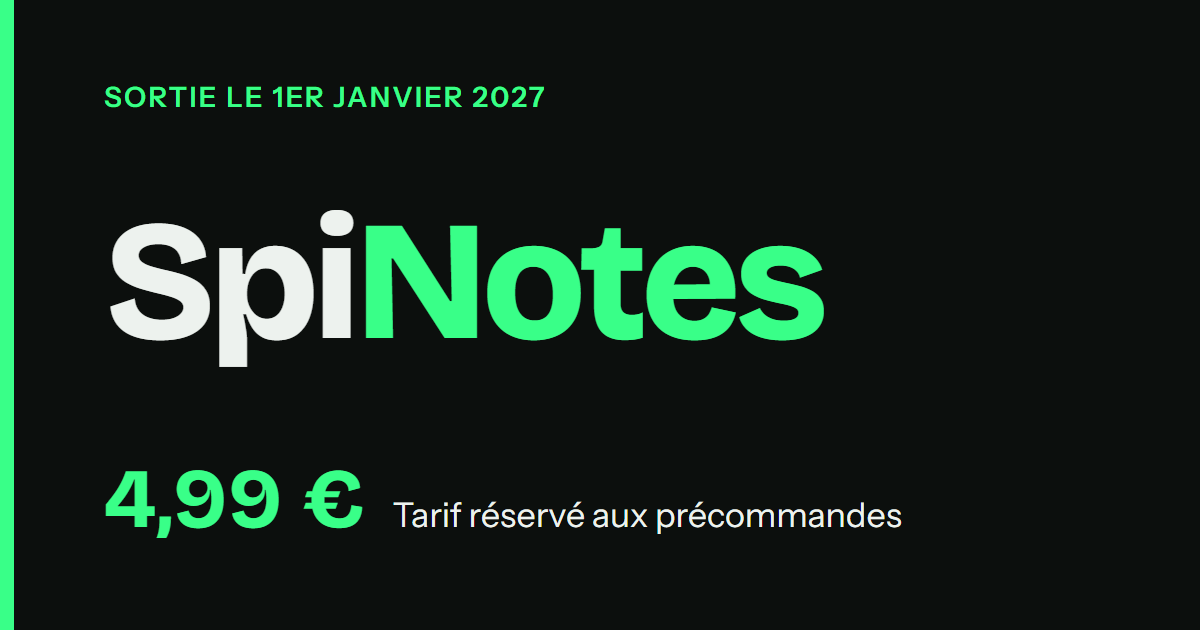
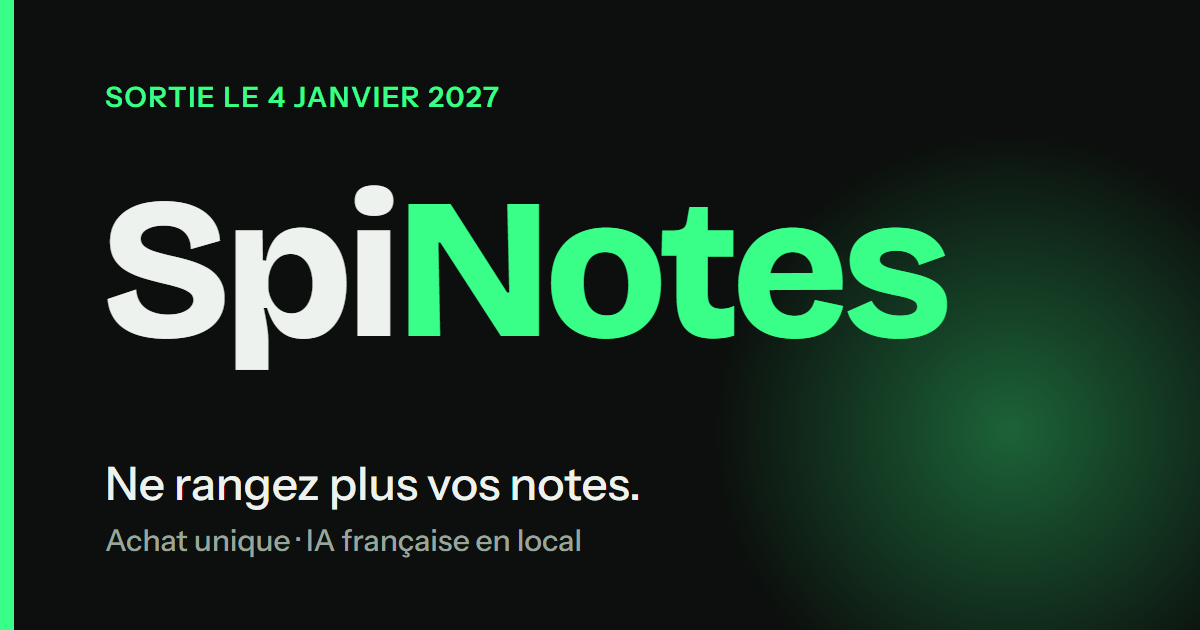
Prix à 6,99 €, sortie le 4 janvier 2027, nouveaux arguments, compte à rebours en pilules de verre

Changed region(s): [[0.0617, 0.2714, 1.0, 1.0], [0.1542, 0.1206, 0.4625, 0.181], [0.0925, 0.1206, 0.1233, 0.181]]

diff --git a/index.html b/index.html
@@ -4,13 +4,13 @@
   <meta charset="utf-8">
   <meta http-equiv="Content-Security-Policy" content="default-src 'self'; script-src 'self'; style-src 'self' 'unsafe-inline'; img-src 'self' data:; font-src 'self'; connect-src 'self'; form-action 'self'; base-uri 'self'; object-src 'none'">
   <meta name="viewport" content="width=device-width, initial-scale=1">
-  <title>SpiNotes | Précommande à 4,99 €</title>
-  <meta name="description" content="SpiNotes sort le 1er janvier 2027. Précommandez gratuitement aujourd'hui et bloquez le tarif de 4,99 €, réservé aux précommandes.">
+  <title>SpiNotes | Ne rangez plus vos notes</title>
+  <meta name="description" content="SpiNotes range vos notes à votre place. Achat unique sans abonnement, IA française en local. Sortie le 4 janvier 2027 : précommandez gratuitement au tarif de 6,99 €.">
   <link rel="canonical" href="https://spinotes.github.io/">
   <meta property="og:type" content="website">
   <meta property="og:locale" content="fr_FR">
-  <meta property="og:title" content="SpiNotes | Précommande à 4,99 €">
-  <meta property="og:description" content="Sortie le 1er janvier 2027. Tarif de 4,99 € réservé aux précommandes.">
+  <meta property="og:title" content="SpiNotes | Ne rangez plus vos notes">
+  <meta property="og:description" content="Sortie le 4 janvier 2027. Achat unique sans abonnement, IA française en local. Précommande gratuite à 6,99 €.">
   <meta property="og:url" content="https://spinotes.github.io/">
   <meta property="og:image" content="https://spinotes.github.io/og.png">
   <meta name="twitter:card" content="summary_large_image">
@@ -38,21 +38,11 @@
   <main id="contenu">
     <section class="hero">
       <div class="wrap">
-        <p class="eyebrow">Sortie le 1er janvier 2027</p>
+        <p class="eyebrow">Sortie le 4 janvier 2027</p>
         <h1>Spi<span>Notes</span></h1>
-        <!-- A COMPLETER : phrase d'accroche qui dit en une ligne à quoi sert l'app -->
-        <p class="hero-lead">L'app de notes signée Spin arrive bientôt. Réservez-la dès maintenant.</p>
+        <p class="hero-lead">Vous écrivez, SpiNotes range. Moins de temps à organiser vos notes, plus de temps pour le reste.</p>
 
-        <div class="price-line">
-          <span class="price">4,99 €</span>
-          <p class="price-note">Tarif réservé aux précommandes
-            <small>Rien à payer aujourd'hui. Inscription gratuite et sans engagement.</small>
-          </p>
-        </div>
-
-        <a class="btn" href="#precommande">Je précommande SpiNotes</a>
-
-        <div class="countdown" id="countdown" data-target="2027-01-01T00:00:00+01:00">
+        <div class="countdown" id="countdown" data-target="2027-01-04T00:00:00+01:00">
           <p class="countdown-label">Lancement dans</p>
           <div class="countdown-grid" aria-live="off">
             <div class="countdown-unit"><strong data-unit="days">--</strong><span>jours</span></div>
@@ -61,6 +51,8 @@
             <div class="countdown-unit"><strong data-unit="seconds">--</strong><span>secondes</span></div>
           </div>
         </div>
+
+        <a class="btn" href="#precommande">Je précommande SpiNotes</a>
       </div>
     </section>
 
@@ -68,10 +60,34 @@
       <div class="wrap split">
         <div>
           <h2>À quoi sert SpiNotes</h2>
+          <p class="lead-accent">Fini le rangement.</p>
         </div>
-        <div>
-          <!-- A COMPLETER : description de l'app (fonctions principales, pour qui, ce qui la rend différente) -->
-          <p class="todo">Description de l'application à compléter.</p>
+        <div class="prose-block">
+          <p>Vous prenez une note, SpiNotes la classe à sa place. Plus de dossiers à créer, plus de tri le dimanche soir, plus de notes perdues au fond d'un tiroir numérique.</p>
+          <p>Le temps que vous passiez à organiser, vous le passez à autre chose : avancer sur un projet, réviser, ou simplement souffler.</p>
+        </div>
+      </div>
+    </section>
+
+    <section class="section" id="avantages">
+      <div class="wrap">
+        <h2>Ce qui change avec SpiNotes</h2>
+        <div class="cards">
+          <article class="card card-featured">
+            <span class="pill">Vos données protégées</span>
+            <h3>Une IA française, qui reste chez vous</h3>
+            <p>Le moteur d'IA de SpiNotes est français et fonctionne en local, directement sur votre appareil. Vos notes ne sont pas envoyées sur un serveur pour être analysées : elles restent à vous, et vos données restent protégées.</p>
+          </article>
+          <article class="card">
+            <span class="pill">Sans abonnement</span>
+            <h3>Vous travaillez seul ? Payez une seule fois.</h3>
+            <p>Un achat unique, et SpiNotes est à vous. Pas d'abonnement, pas de facture qui revient chaque mois. Beaucoup d'apps de notes ne se louent qu'à l'abonnement : pas pour utiliser SpiNotes en solo.</p>
+          </article>
+          <article class="card">
+            <span class="pill">À la carte</span>
+            <h3>Synchronisation et collaboration sur mesure</h3>
+            <p>Vous voulez retrouver vos notes sur votre téléphone ? Une formule de synchronisation, moins chère. Vous voulez travailler à plusieurs ? Ajoutez l'option collaboration. Vous ne payez que ce dont vous avez besoin.</p>
+          </article>
         </div>
       </div>
     </section>
@@ -80,7 +96,13 @@
       <div class="wrap split">
         <div>
           <h2>Comment marche la précommande</h2>
-          <p style="color:var(--muted)">Le tarif de 4,99 € est valable uniquement pour les personnes inscrites avant la sortie.</p>
+          <div class="price-line">
+            <span class="price">6,99 €</span>
+            <p class="price-note">Achat unique, tarif réservé aux précommandes
+              <small>Rien à payer aujourd'hui. Inscription gratuite et sans engagement.</small>
+            </p>
+          </div>
+          <p style="color:var(--muted)">Le tarif de 6,99 € est valable uniquement pour les personnes inscrites avant la sortie.</p>
         </div>
         <ol class="steps">
           <li>
@@ -89,10 +111,10 @@
           </li>
           <li>
             <strong>Vous recevez un email de confirmation</strong>
-            <p>Il confirme que votre précommande est bien enregistrée et que le tarif de 4,99 € vous est réservé.</p>
+            <p>Il confirme que votre précommande est bien enregistrée et que le tarif de 6,99 € vous est réservé.</p>
           </li>
           <li>
-            <strong>Le 1er janvier 2027, on vous prévient</strong>
+            <strong>Le 4 janvier 2027, on vous prévient</strong>
             <p>Un second email vous donne le lien pour télécharger SpiNotes au tarif précommande.</p>
           </li>
         </ol>
@@ -184,15 +206,19 @@
         <div class="faq">
           <details>
             <summary>Est-ce que je paie quelque chose aujourd'hui ?</summary>
-            <p>Non. La précommande est gratuite et sans engagement. Vous payez 4,99 € seulement si vous décidez de télécharger SpiNotes à sa sortie.</p>
+            <p>Non. La précommande est gratuite et sans engagement. Vous payez 6,99 € une seule fois, seulement si vous décidez de télécharger SpiNotes à sa sortie.</p>
           </details>
           <details>
-            <summary>Le tarif de 4,99 € est-il garanti ?</summary>
+            <summary>Faut-il un abonnement pour utiliser SpiNotes ?</summary>
+            <p>Non. L'application s'achète une seule fois, sans abonnement. La synchronisation entre vos appareils et la collaboration sont des options facultatives : vous choisissez la formule qui vous correspond, et vous payez moins si vous voulez seulement synchroniser vos notes avec votre téléphone.</p>
+          </details>
+          <details>
+            <summary>Le tarif de 6,99 € est-il garanti ?</summary>
             <p>Oui, pour toutes les personnes inscrites avant le lancement. Ce tarif ne sera plus proposé ensuite.</p>
           </details>
           <details>
             <summary>Quand vais-je recevoir l'application ?</summary>
-            <p>La sortie est prévue le 1er janvier 2027. Vous recevrez un email ce jour-là avec le lien de téléchargement.</p>
+            <p>La sortie est prévue le 4 janvier 2027. Vous recevrez un email ce jour-là avec le lien de téléchargement.</p>
           </details>
           <details>
             <summary>Je n'ai pas reçu l'email de confirmation.</summary>

diff --git a/css/style.css b/css/style.css
@@ -191,7 +191,36 @@ p {
 /* Hero */
 
 .hero {
-  padding: 64px 0 72px;
+  position: relative;
+  overflow: hidden;
+  isolation: isolate;
+  padding: 64px 0 80px;
+}
+
+.hero::before,
+.hero::after {
+  content: "";
+  position: absolute;
+  z-index: -1;
+  border-radius: 50%;
+  filter: blur(70px);
+  pointer-events: none;
+}
+
+.hero::before {
+  width: 520px;
+  height: 520px;
+  top: 90px;
+  left: -120px;
+  background: radial-gradient(circle, rgba(57, 255, 136, 0.42), transparent 68%);
+}
+
+.hero::after {
+  width: 460px;
+  height: 460px;
+  top: 220px;
+  right: -140px;
+  background: radial-gradient(circle, rgba(43, 196, 106, 0.3), transparent 68%);
 }
 
 @media (min-width: 900px) {
@@ -223,8 +252,8 @@ p {
 .hero-lead {
   font-size: clamp(1.125rem, 2.4vw, 1.375rem);
   color: var(--muted);
-  max-width: 34ch;
-  margin-bottom: 32px;
+  max-width: 36ch;
+  margin-bottom: 36px;
 }
 
 .price-line {
@@ -232,7 +261,7 @@ p {
   flex-wrap: wrap;
   align-items: baseline;
   gap: 8px 16px;
-  margin-bottom: 32px;
+  margin: 8px 0 20px;
 }
 
 .price {
@@ -255,12 +284,10 @@ p {
   font-size: 0.9375rem;
 }
 
-/* Compte à rebours */
+/* Compte à rebours : pilules de verre */
 
 .countdown {
-  margin-top: 56px;
-  padding-top: 28px;
-  border-top: 1px solid var(--line);
+  margin: 0 0 36px;
 }
 
 .countdown-label {
@@ -272,16 +299,32 @@ p {
 .countdown-grid {
   display: grid;
   grid-template-columns: repeat(4, minmax(0, 1fr));
-  gap: 8px;
-  max-width: 560px;
+  gap: 10px;
+  max-width: 580px;
 }
 
 .countdown-unit {
-  background: var(--surface);
-  border: 1px solid var(--line);
-  border-radius: var(--radius-s);
-  padding: 14px 8px 10px;
+  background: linear-gradient(150deg, rgba(255, 255, 255, 0.16), rgba(255, 255, 255, 0.04));
+  border: 1px solid rgba(255, 255, 255, 0.2);
+  border-radius: 999px;
+  padding: 18px 4px 14px;
   text-align: center;
+  box-shadow:
+    inset 0 1px 0 rgba(255, 255, 255, 0.28),
+    0 10px 30px rgba(0, 0, 0, 0.35);
+}
+
+@supports ((backdrop-filter: blur(1px)) or (-webkit-backdrop-filter: blur(1px))) {
+  .countdown-unit {
+    -webkit-backdrop-filter: blur(18px) saturate(160%);
+    backdrop-filter: blur(18px) saturate(160%);
+  }
+}
+
+@supports not ((backdrop-filter: blur(1px)) or (-webkit-backdrop-filter: blur(1px))) {
+  .countdown-unit {
+    background: var(--surface-2);
+  }
 }
 
 .countdown-unit strong {
@@ -296,7 +339,7 @@ p {
 
 .countdown-unit span {
   font-size: 0.8125rem;
-  color: var(--muted);
+  color: rgba(237, 242, 238, 0.72);
 }
 
 .countdown-done {
@@ -322,6 +365,77 @@ p {
     grid-template-columns: 5fr 7fr;
     gap: 64px;
   }
+}
+
+.lead-accent {
+  font-family: var(--font-title);
+  font-size: clamp(1.5rem, 3.4vw, 2rem);
+  font-weight: 700;
+  color: var(--green);
+  line-height: 1.15;
+}
+
+.prose-block p {
+  font-size: 1.1875rem;
+  color: #cfd8d2;
+}
+
+.cards {
+  display: grid;
+  gap: 16px;
+  margin-top: 32px;
+}
+
+@media (min-width: 768px) {
+  .cards {
+    grid-template-columns: 1fr 1fr;
+  }
+
+  .card-featured {
+    grid-column: 1 / -1;
+  }
+}
+
+.card {
+  background: var(--surface);
+  border: 1px solid var(--line);
+  border-radius: var(--radius-m);
+  padding: 28px 24px;
+}
+
+.card h3 {
+  font-size: 1.375rem;
+  margin: 16px 0 10px;
+}
+
+.card p {
+  color: var(--muted);
+  margin: 0;
+}
+
+.card-featured {
+  background: linear-gradient(140deg, rgba(57, 255, 136, 0.12), var(--surface) 55%);
+  border-color: var(--green-dim);
+}
+
+.card-featured h3 {
+  font-size: clamp(1.5rem, 3vw, 1.875rem);
+}
+
+.card-featured p {
+  color: #cfd8d2;
+  max-width: 62ch;
+}
+
+.pill {
+  display: inline-block;
+  padding: 4px 14px;
+  border: 1px solid var(--green-dim);
+  border-radius: 999px;
+  color: var(--green);
+  font-size: 0.8125rem;
+  font-weight: 600;
+  letter-spacing: 0.02em;
 }
 
 .todo {

diff --git a/cgv.html b/cgv.html
@@ -5,7 +5,7 @@
   <meta http-equiv="Content-Security-Policy" content="default-src 'self'; script-src 'self'; style-src 'self' 'unsafe-inline'; img-src 'self' data:; font-src 'self'; connect-src 'self'; form-action 'self'; base-uri 'self'; object-src 'none'">
   <meta name="viewport" content="width=device-width, initial-scale=1">
   <title>Conditions générales de vente | SpiNotes</title>
-  <meta name="description" content="Conditions de la précommande SpiNotes et de la vente de l'application : tarif de 4,99 €, date de sortie, droit de rétractation.">
+  <meta name="description" content="Conditions de la précommande SpiNotes et de la vente de l'application : tarif de 6,99 €, date de sortie, droit de rétractation.">
   <link rel="canonical" href="https://spinotes.github.io/cgv">
   <meta name="theme-color" content="#0c0f0d">
   <link rel="icon" href="favicon.svg" type="image/svg+xml">
@@ -32,11 +32,11 @@
       <p>Elle est ouverte aux personnes âgées d'au moins 15 ans. Une seule précommande est prise en compte par adresse email.</p>
 
       <h2>3. Tarif réservé</h2>
-      <p>Les personnes inscrites avant la sortie bénéficient d'un tarif de 4,99 € TTC pour l'achat de SpiNotes. Ce tarif est réservé aux précommandes et ne sera plus proposé après le lancement.</p>
+      <p>Les personnes inscrites avant la sortie bénéficient d'un tarif de 6,99 € TTC pour l'achat de SpiNotes. Ce tarif est réservé aux précommandes et ne sera plus proposé après le lancement.</p>
       <p>Le paiement se fait au moment du téléchargement, via le lien envoyé par email à la sortie, selon les conditions de la plateforme de distribution utilisée.</p>
 
       <h2>4. Date de sortie</h2>
-      <p>La sortie de SpiNotes est prévue le 1er janvier 2027. Si cette date devait changer, les inscrits en seraient prévenus par email. Un report n'entraîne aucun frais puisque rien n'a été payé, et le tarif de 4,99 € reste garanti.</p>
+      <p>La sortie de SpiNotes est prévue le 4 janvier 2027. Si cette date devait changer, les inscrits en seraient prévenus par email. Un report n'entraîne aucun frais puisque rien n'a été payé, et le tarif de 6,99 € reste garanti.</p>
       <p>Si le projet était abandonné, les inscrits seraient prévenus et leurs données supprimées.</p>
 
       <h2>5. Confirmation</h2>

diff --git a/merci.html b/merci.html
@@ -22,8 +22,8 @@
     <div class="wrap prose center-page">
       <p class="eyebrow">Précommande enregistrée</p>
       <h1>Merci, c'est noté.</h1>
-      <p>Votre tarif de 4,99 € est réservé. Un email de confirmation vient de partir vers votre boîte. S'il n'arrive pas d'ici quelques minutes, jetez un œil dans les courriers indésirables.</p>
-      <p>Le 1er janvier 2027, vous recevrez un second email avec le lien pour télécharger SpiNotes.</p>
+      <p>Votre tarif de 6,99 € est réservé. Un email de confirmation vient de partir vers votre boîte. S'il n'arrive pas d'ici quelques minutes, jetez un œil dans les courriers indésirables.</p>
+      <p>Le 4 janvier 2027, vous recevrez un second email avec le lien pour télécharger SpiNotes.</p>
       <p><a class="btn" href="./">Retour à l'accueil</a></p>
     </div>
   </main>

diff --git a/confidentialite.html b/confidentialite.html
@@ -46,7 +46,7 @@
           <tr><th>Finalité</th><th>Base légale</th></tr>
         </thead>
         <tbody>
-          <tr><td>Enregistrer votre précommande et vous réserver le tarif de 4,99 €</td><td>Votre consentement</td></tr>
+          <tr><td>Enregistrer votre précommande et vous réserver le tarif de 6,99 €</td><td>Votre consentement</td></tr>
           <tr><td>Vous envoyer l'email de confirmation puis l'email de sortie de l'application</td><td>Votre consentement</td></tr>
           <tr><td>Vérifier que vous avez au moins 15 ans</td><td>Obligation de recueillir un consentement valable (article 45 de la loi Informatique et Libertés)</td></tr>
           <tr><td>Mieux connaître le public de SpiNotes (études, perso, pro) à l'aide de statistiques globales</td><td>Intérêt légitime de Spin</td></tr>
